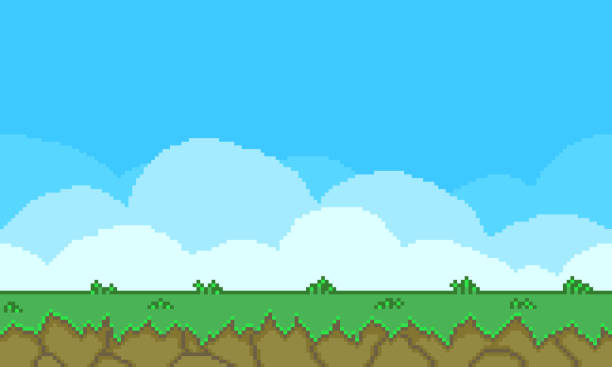
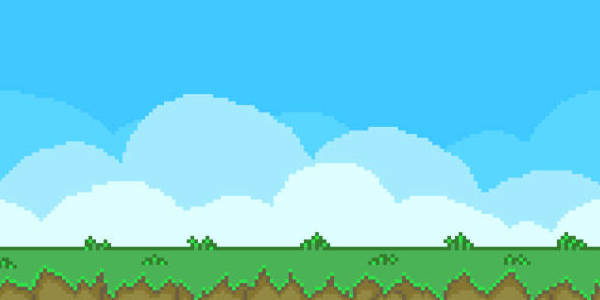
feat: update game
Clean background, update player position, update player gravity, fix enemy behavior

diff --git a/easter_egg.js b/easter_egg.js
@@ -1,38 +1,65 @@
+  /**********************/
+ /**** VIEW BINDINGS ***/ 
+/**********************/
+
 let player = document.getElementById("player");
-let scoreElement = document.getElementById("score");
+let scoreView = document.getElementById("score");
 let gameContainer = document.getElementById("game-container");
 let startButton = document.getElementById("start-button");
 
+  /******************/
+ /**** VARIABLES ***/ 
+/******************/
+
+// Player variables
 let isJumping = false;
 let playerBottom = 0;
-let gravity = 0.5; // Diminuez cette valeur pour ralentir la gravité
-let gameSpeed = 4;
-let score = 0;
-let isGameOver = false;
-let difficultyIncreaseInterval = 5;
-let isGameStarted = false;
-let enemyActive = false; // Indicateur pour savoir si un ennemi est actif
-let backgroundPosition = 0;
-let enemyInterval, jumpInterval, fallInterval, bonusInterval;
+let gravity = 0.5;
+let jumpInterval;
+let fallInterval;
+const groundBottom = 50;
 
+// Enemies variables
+let enemyActive = false;
+let gameSpeed = 4;
+let difficultyIncreaseInterval = 5;
+let enemyInterval;
 const enemyTypes = [
+  { width: 30, height: 30 },
   { width: 30, height: 40 },
   { width: 30, height: 50 },
-  { width: 30, height: 60 },
 ];
+const enemyInitialPosition = 800;
 
-// Fonction pour démarrer le jeu
+// Bonus variables
+let bonusInterval;
+
+// Game variables
+let score = 0;
+let isGameOver = false;
+let isGameStarted = false;
+let backgroundPosition = 0;
+
+  /*******************/
+ /**** FUNCTIONS ****/
+/*******************/
+
 function startGame() {
+  // Don't start if game is already playing
   if (isGameStarted) return;
 
+  // Start game and hide button
   isGameStarted = true;
   startButton.style.visibility = 'hidden';
 
+  // Move the background
   setInterval(updateBackground, 20);
 
+  // Create enemies and bonus
   createEnemy();
   generateBonus();
 
+  // Jumb on space button
   document.addEventListener("keydown", (event) => {
     if (event.code === "Space") {
       jump();
@@ -41,92 +68,107 @@ function startGame() {
 }
 
 function updateBackground() {
-  backgroundPosition -= gameSpeed / 5; // Ajuste la vitesse du défilement
-  if (backgroundPosition <= -100) { // Réinitialise le fond lorsqu'il est complètement décalé
-      backgroundPosition = 0;
-  }
+  backgroundPosition -= gameSpeed / 3;
+  // Apply position it to the view
   document.getElementById('background').style.backgroundPosition = backgroundPosition + 'px 0';
 }
 
 function jump() {
-    if (isJumping || !isGameStarted) return;
-    isJumping = true;
+  // Don't jump if the player is already jumping or the game is stopped
+  if (isJumping || !isGameStarted) return;
+  
+  // Jump
+  isJumping = true;
 
-    let jumpHeight = 150 + (gameSpeed * 5);
-    let jumpSpeed = 25 - gameSpeed; // Augmentez cette valeur pour ralentir l'ascension
+  // Prepare new values
+  let jumpHeight = 200 + (gameSpeed * 5);
+  let jumpSpeed = 16;
 
-    jumpInterval = setInterval(() => {
-        if (playerBottom >= jumpHeight) {
-            clearInterval(jumpInterval);
-
-            let fallSpeed = jumpSpeed * gravity;
-            fallInterval = setInterval(() => {
-                if (playerBottom <= 0) {
-                    playerBottom = 0; // Empêche de s'enfoncer dans le sol
-                    clearInterval(fallInterval);
-                    isJumping = false;
-                } else {
-                    playerBottom -= fallSpeed;
-                }
-                player.style.bottom = playerBottom + "px";
-            }, 20);
-        } else {
-            playerBottom += jumpSpeed;
+  // Define the action
+  jumpInterval = setInterval(() => {
+    // If the player has reached the top of the jump
+    if (playerBottom >= jumpHeight) {
+        // Stop the jump
+        clearInterval(jumpInterval);
+        // Start the fall
+        let fallSpeed = jumpSpeed * gravity;
+        fallInterval = setInterval(() => {
+            // If player has reached the ground
+            if (playerBottom <= groundBottom) {
+                // Avoid player going to low
+                playerBottom = groundBottom;
+                // Stop the fall
+                clearInterval(fallInterval);
+                isJumping = false;
+            } else {
+                playerBottom -= fallSpeed;
+            }
+            // Applay the position
             player.style.bottom = playerBottom + "px";
-        }
-    }, 20);
+        }, 20);
+    } else {
+        playerBottom += jumpSpeed;
+        // Applay the position
+        player.style.bottom = playerBottom + "px";
+    }
+  }, 20);
 }
 
-
-
-// Fonction pour créer les ennemis
 function createEnemy() {
-  if (enemyActive || isGameOver) return; // Ne crée pas un nouvel ennemi s'il y en a déjà un
+  // Don't create enemy twice or if game is stopped
+  if (enemyActive || isGameOver) return;
 
-  enemyActive = true; // Indique qu'un ennemi est en cours de création
-  let enemyPosition = 800;
+  enemyActive = true;
+  let enemyPosition = enemyInitialPosition;
 
+  // Get a random enemy to create
   const randomEnemy = enemyTypes[Math.floor(Math.random() * enemyTypes.length)];
 
+  // Create the view
   let newEnemy = document.createElement('div');
   newEnemy.classList.add('enemy');
   newEnemy.style.width = randomEnemy.width + "px";
   newEnemy.style.height = randomEnemy.height + "px";
   newEnemy.style.position = "absolute";
-  newEnemy.style.bottom = "0";
+  newEnemy.style.bottom = groundBottom + "px";
   newEnemy.style.left = enemyPosition + "px";
   newEnemy.style.backgroundColor = "#e74c3c";
 
+  // Add the view
   gameContainer.appendChild(newEnemy);
 
   enemyInterval = setInterval(() => {
-
-    if (enemyPosition <= -30) {
-      newEnemy.remove();
-      enemyPosition = 800;
+    if (enemyPosition === 60) { // If the enemy is at the left of the player
+      // Increase and update the score
       score++;
-      scoreElement.innerText = "Score: " + score;
+      scoreView.innerText = "Score: " + score;
+    }
+    if (enemyPosition <= -30) { // If the enemy quit the screen
+      // Remove it
+      newEnemy.remove();
+      enemyPosition = enemyInitialPosition;
 
-      // Réinitialise l'indicateur une fois que l'ennemi est hors de vue
-            enemyActive = false;
-
+      // Increase the difficulty (speed) if needed
       if (score % difficultyIncreaseInterval === 0) {
         gameSpeed += 1;
       }
 
+      // Clean the process and a new enemy
+      clearInterval(enemyInterval)
+      enemyActive = false;
       createEnemy();
+    } else {
+      // Move the enemy
+      enemyPosition -= gameSpeed;
+      newEnemy.style.left = enemyPosition + "px";
     }
 
-    // Vérification de collision améliorée
-      if (enemyPosition < 100 && enemyPosition > 50 && !isGameOver) {
-          let enemyBottom = parseInt(newEnemy.style.height);
-          if (playerBottom < enemyBottom) {
-              gameOver();
-          }
+   if (enemyPosition < 130 && enemyPosition > 80 && !isGameOver) {
+      let enemyBottom = parseInt(newEnemy.style.height);
+      if (playerBottom < enemyBottom) {
+          gameOver();
       }
-
-    enemyPosition -= gameSpeed;
-    newEnemy.style.left = enemyPosition + "px";
+    }
   }, 20);
 }
 
@@ -160,7 +202,7 @@ function generateBonus() {
       // Détecte la collision entre le joueur et le bonus
       if (bonusPosition > 0 && bonusPosition < 50 && playerBottom + 50 > bonusHeight && playerBottom < bonusHeight + 30) {
         score += 10; // Ajoute 10 points pour chaque bonus attrapé
-        scoreElement.innerText = "Score: " + score;
+        scoreView.innerText = "Score: " + score;
         newBonus.remove();
         clearInterval(moveBonusInterval);
       }
@@ -183,7 +225,7 @@ function gameOver() {
 startButton.addEventListener("click", startGame);
 
 document.addEventListener("keydown", (event) => {
-  if (event.code === "Enter" && !isGameStarted) {
+  if ((event.code === "Enter" || event.code === "Space") && !isGameStarted) {
     startGame();
   }
 });

diff --git a/easter_egg.css b/easter_egg.css
@@ -16,11 +16,9 @@ body {
 
 #game-container {
   position: relative;
-  width: 800px;
-  height: 400px; /* Ajuste la hauteur selon tes besoins */
+  width: 700px;
+  height: 350px;
   overflow: hidden;
-  background-color: #7c1a1a; /* Couleur de fond du jeu */
-  margin-bottom: 10px; /* Ajoute un espace entre le jeu et le bouton */
 }
 
 #start-button {
@@ -29,12 +27,13 @@ body {
   padding: 10px 20px; /* Ajoute un peu d'espace autour du texte */
   font-size: 16px; /* Ajuste la taille de la police */
   cursor: pointer; /* Change le curseur au survol */
+  margin-top: 30px;
 }
 
 #player {
   position: absolute;
-  bottom: 0;
-  left: 50px;
+  bottom: 50px;
+  left: 100px;
   width: 50px;
   height: auto;
 }
@@ -49,16 +48,16 @@ body {
 
 #score {
   position: absolute;
-  top: 10px;
-  left: 10px;
+  top: 15px;
+  left: 15px;
   font-family: Arial, sans-serif;
-  font-size: 20px;
+  font-size: 18px;
   font-weight: bold;
 }
 
 #background {
   position: absolute;
-  width: 200%; /* Largeur double pour le défilement */
+  width: 100%; /* Largeur double pour le défilement */
   height: 100%;
   background-image: url('background.jpg'); /* Remplace par ton image de fond */
   background-size: cover; /* Ajuste l'image pour couvrir toute la zone */

diff --git a/easter_egg.html b/easter_egg.html
@@ -3,8 +3,8 @@
 <head>
   <meta charset="UTF-8">
   <meta name="viewport" content="width=device-width, initial-scale=1.0">
-  <title>Jeu du Dinosaure</title>
-  <link rel="stylesheet" href="style.css">
+  <title>Zou Game</title>
+  <link rel="stylesheet" href="easter_egg.css">
 </head>
 <body>
     <div class="row">
@@ -15,6 +15,6 @@
         </div>
         <button id="start-button">Start Game</button> <!-- Bouton de démarrage -->
     </div>
-  <script src="script.js"></script>
+  <script src="easter_egg.js"></script>
 </body>
 </html>
